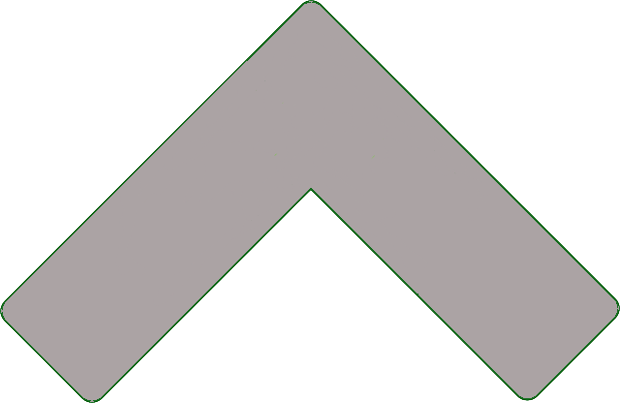
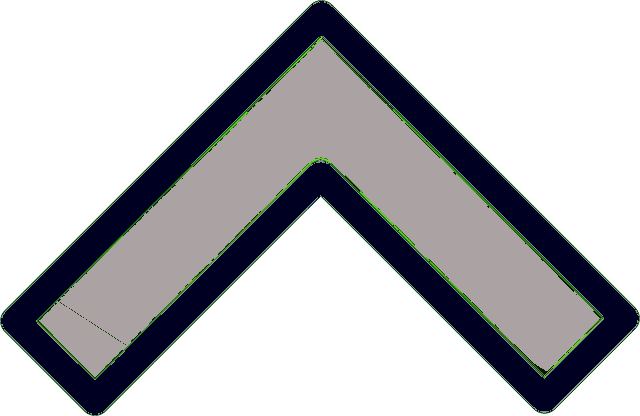
scroll to top

Changed region(s): [[0.0, 0.0, 1.0, 1.0]]

diff --git a/src/App.css b/src/App.css
@@ -22,8 +22,6 @@
 }
 :root{
   --lightBrown:rgb(232,208,188);
-  --darkBlueOld:rgb(1, 0, 16);
-  --darkBlue:rgb(2, 0,25);
   --darkBlue:rgb(0,0,35);
   --transparentBlack:rgba(15, 7, 1, 0.395);
   --lightWhite:rgb(171, 163, 163);
